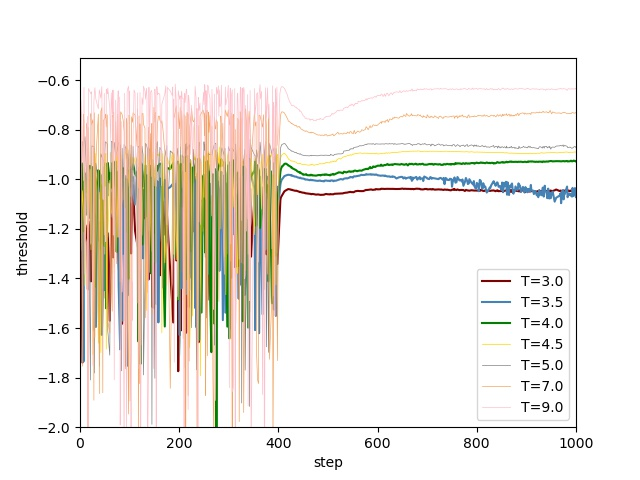
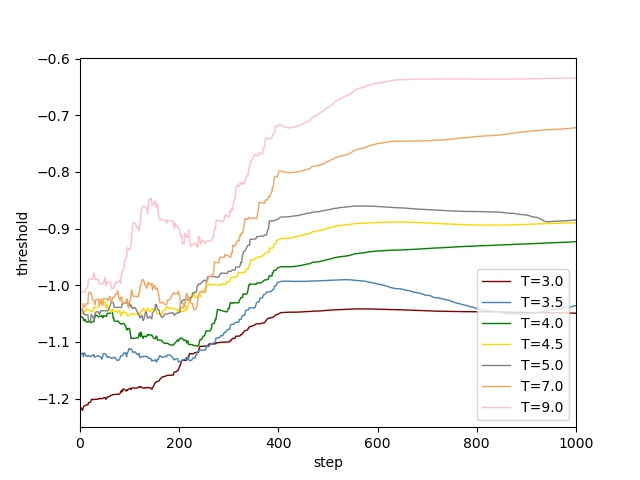
1.1 with smooth

diff --git a/nqubit/plot/plot.py b/nqubit/plot/plot.py
@@ -1,27 +1,41 @@
 # nbit-6, with truncation, one figure, all T.
+# with smooth
+
 import numpy as np
 import matplotlib.pyplot as plt
 from tensorboard.backend.event_processing.event_accumulator import EventAccumulator
 
+smooth = True
+smooth_index = 100 # [0, max)
+threshold_len = 0 # == 10000??????????
+linewidth = 1.0
+
 def plot_func(dir, color, label):
-    event = EventAccumulator(dir)
-    event.Reload()
-    threshold = event.scalars.Items('threshold')
-    plt.plot([i.step for i in threshold], [i.value for i in threshold], color=color, label=label, linewidth=0.5)
-    return
+    if (smooth):
+        event = EventAccumulator(dir)
+        event.Reload()
+        threshold = event.scalars.Items('threshold')
+        threshold_len = len(threshold)
+        tmp_threshold = np.zeros(threshold_len)
+        for i in range(len(threshold)): # average with the behind
+            # threshold.value = threshold[i:i+smooth_index].value
+            # print(threshold[i])
+            tmp_threshold[i] = (np.array([j.value for j in threshold[i:i+smooth_index]])).mean()
+        # !!! threshold and tmp_threshold
+        plt.plot([i.step for i in threshold], tmp_threshold, color=color, label=label, linewidth=linewidth) 
+    else:
+        event = EventAccumulator(dir)
+        event.Reload()
+        threshold = event.scalars.Items('threshold')
+        plt.plot([i.step for i in threshold], [i.value for i in threshold], color=color, label=label, linewidth=linewidth)
+        return
 
 dir = "/home/pami/ZeroRL/nqubit/results/sac_energy_new/nbit-6/T-3.000/events.out.tfevents.1607676640.pami12"
 event = EventAccumulator(dir)
 event.Reload()
 print("\n\n")
-print("event_acc: ", event)
-print("ea.scalars.Keys(): ", event.scalars.Keys())
-
-threshold = event.scalars.Items('threshold')
-print("len(threshold): ", len(threshold))
-print("threshold[0:2]: ", threshold[0:2])
-print([(i.step, i.value) for i in threshold[0:11]])
-
+print("event: ", event)
+print("event.scalars.Keys(): ", event.scalars.Keys())
 
 # fig = plt.figure(figsize=(6,4))
 # ax1 = fig.add_subplot(211)
@@ -39,24 +53,17 @@ print([(i.step, i.value) for i in threshold[0:11]])
 # ax2 = fig.add_subplot(212)
 # ax2.plot([i.step for i in threshold], [i.value for i in threshold], color='b', label='T=3.5')
 
-plt.plot([i.step for i in threshold], [i.value for i in threshold], color='maroon', label='T=3.0')
-plt.xlim(0)
+plot_func(dir=dir, color='maroon', label='T=3.0')
+
 # acc=ea.scalars.Items('acc')
 # ax1.plot([i.step for i in acc],[i.value for i in acc],label='acc')
-plt.xlabel("step")
-plt.ylabel("threshold")
+
 
 dir2 = "/home/pami/ZeroRL/nqubit/results/sac_energy_new/nbit-6/T-3.500/events.out.tfevents.1607686863.pami12"
-event2 = EventAccumulator(dir2)
-event2.Reload()
-threshold2 = event2.scalars.Items('threshold')
-plt.plot([i.step for i in threshold2], [i.value for i in threshold2], color='steelblue', label='T=3.5')
+plot_func(dir=dir2, color='steelblue', label='T=3.5')
 
 dir3 = "/home/pami/ZeroRL/nqubit/results/sac_energy_new/nbit-6/T-4.000/events.out.tfevents.1607686837.pami12"
-event3 = EventAccumulator(dir3)
-event3.Reload()
-threshold3 = event3.scalars.Items('threshold')
-plt.plot([i.step for i in threshold3], [i.value for i in threshold3], color='g', label='T=4.0')
+plot_func(dir=dir3, color='g', label='T=4.0')
 
 dir4 = "/home/pami/ZeroRL/nqubit/results/sac_energy_new/nbit-6/T-4.500/events.out.tfevents.1607686906.pami12"
 plot_func(dir=dir4, color='gold', label='T=4.5')
@@ -70,14 +77,15 @@ plot_func(dir=dir6, color='sandybrown', label='T=7.0')
 dir7 = "/home/pami/ZeroRL/nqubit/results/sac_energy_new/nbit-6/T-9.000/events.out.tfevents.1607676748.pami12"
 plot_func(dir=dir7, color='pink', label='T=9.0')
 
+plt.xlim(0)
+plt.xlabel("step")
+plt.ylabel("threshold")
+
 plt.legend(loc='lower right')
 plt.savefig('original.jpg')
 
 plt.xlim(0, 15000)
 plt.savefig('truncation_x.jpg')
-
-plt.ylim(-2)
-plt.savefig('truncation_x_y.jpg')
 
 plt.xlim(0, 3000)
 plt.savefig('truncation_3000_-2.jpg')

diff --git a/nqubit/plot/test.py b/nqubit/plot/test.py
@@ -1,0 +1,6 @@
+import numpy as np
+
+a = np.array([1, 2, 3, 4, 5, 6])
+b = np.zeros(10)
+print(b)
+print(a.mean())
